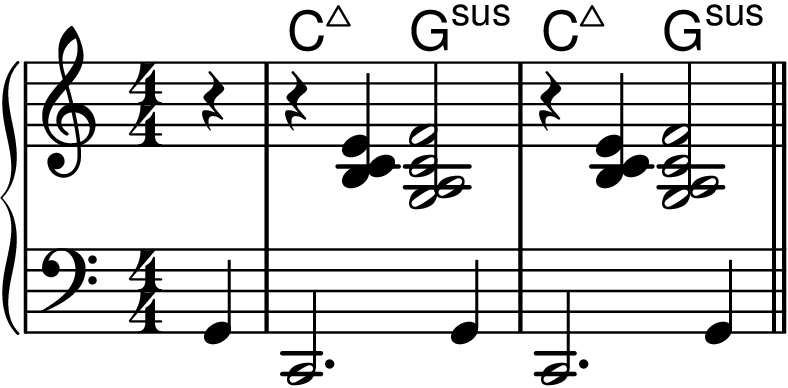
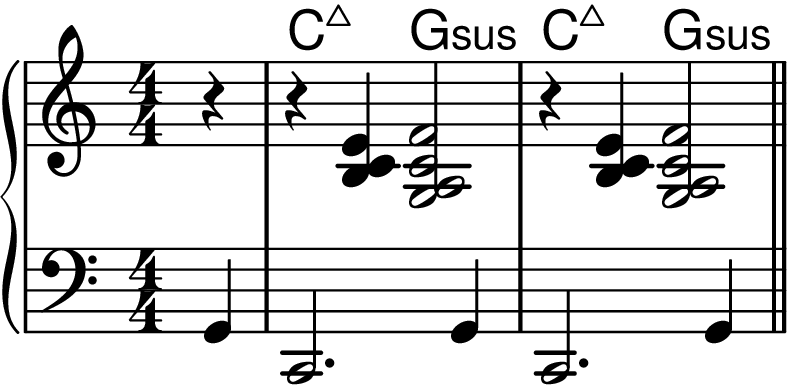
Rebuild with lowered sus

diff --git a/docs/chapter6.html b/docs/chapter6.html
@@ -403,7 +403,7 @@
   <p><midi-player id="figure6-67-play" src="./figure6-67.midi" sound-font visualizer="#figure6-67-viz" />
   </details>
 <details><summary>Figure 6-68</summary>
-  <p><img src="./figure6-68.cropped.png" name="Figure 6-68" style="width: 1123.0px; height: 266.5px;"/>
+  <p><img src="./figure6-68.cropped.png" name="Figure 6-68" style="width: 1123.0px; height: 269.0px;"/>
   <midi-visualizer type="waterfall" id="figure6-68-viz" />
   <p><midi-player id="figure6-68-play" src="./figure6-68.midi" sound-font visualizer="#figure6-68-viz" />
   </details>
@@ -454,12 +454,12 @@
   <p><midi-player id="figure6-77-play" src="./figure6-77.midi" sound-font visualizer="#figure6-77-viz" />
   </details>
 <details><summary>Figure 6-78</summary>
-  <p><img src="./figure6-78.cropped.png" name="Figure 6-78" style="width: 1123.0px; height: 548.0px;"/>
+  <p><img src="./figure6-78.cropped.png" name="Figure 6-78" style="width: 1123.0px; height: 550.0px;"/>
   <midi-visualizer type="waterfall" id="figure6-78-viz" />
   <p><midi-player id="figure6-78-play" src="./figure6-78.midi" sound-font visualizer="#figure6-78-viz" />
   </details>
 <details><summary>Figure 6-79</summary>
-  <p><img src="./figure6-79.cropped.png" name="Figure 6-79" style="width: 816.5px; height: 87.5px;"/>
+  <p><img src="./figure6-79.cropped.png" name="Figure 6-79" style="width: 821.0px; height: 89.5px;"/>
   <midi-visualizer type="waterfall" id="figure6-79-viz" />
   <p><midi-player id="figure6-79-play" src="./figure6-79.midi" sound-font visualizer="#figure6-79-viz" />
   </details>
